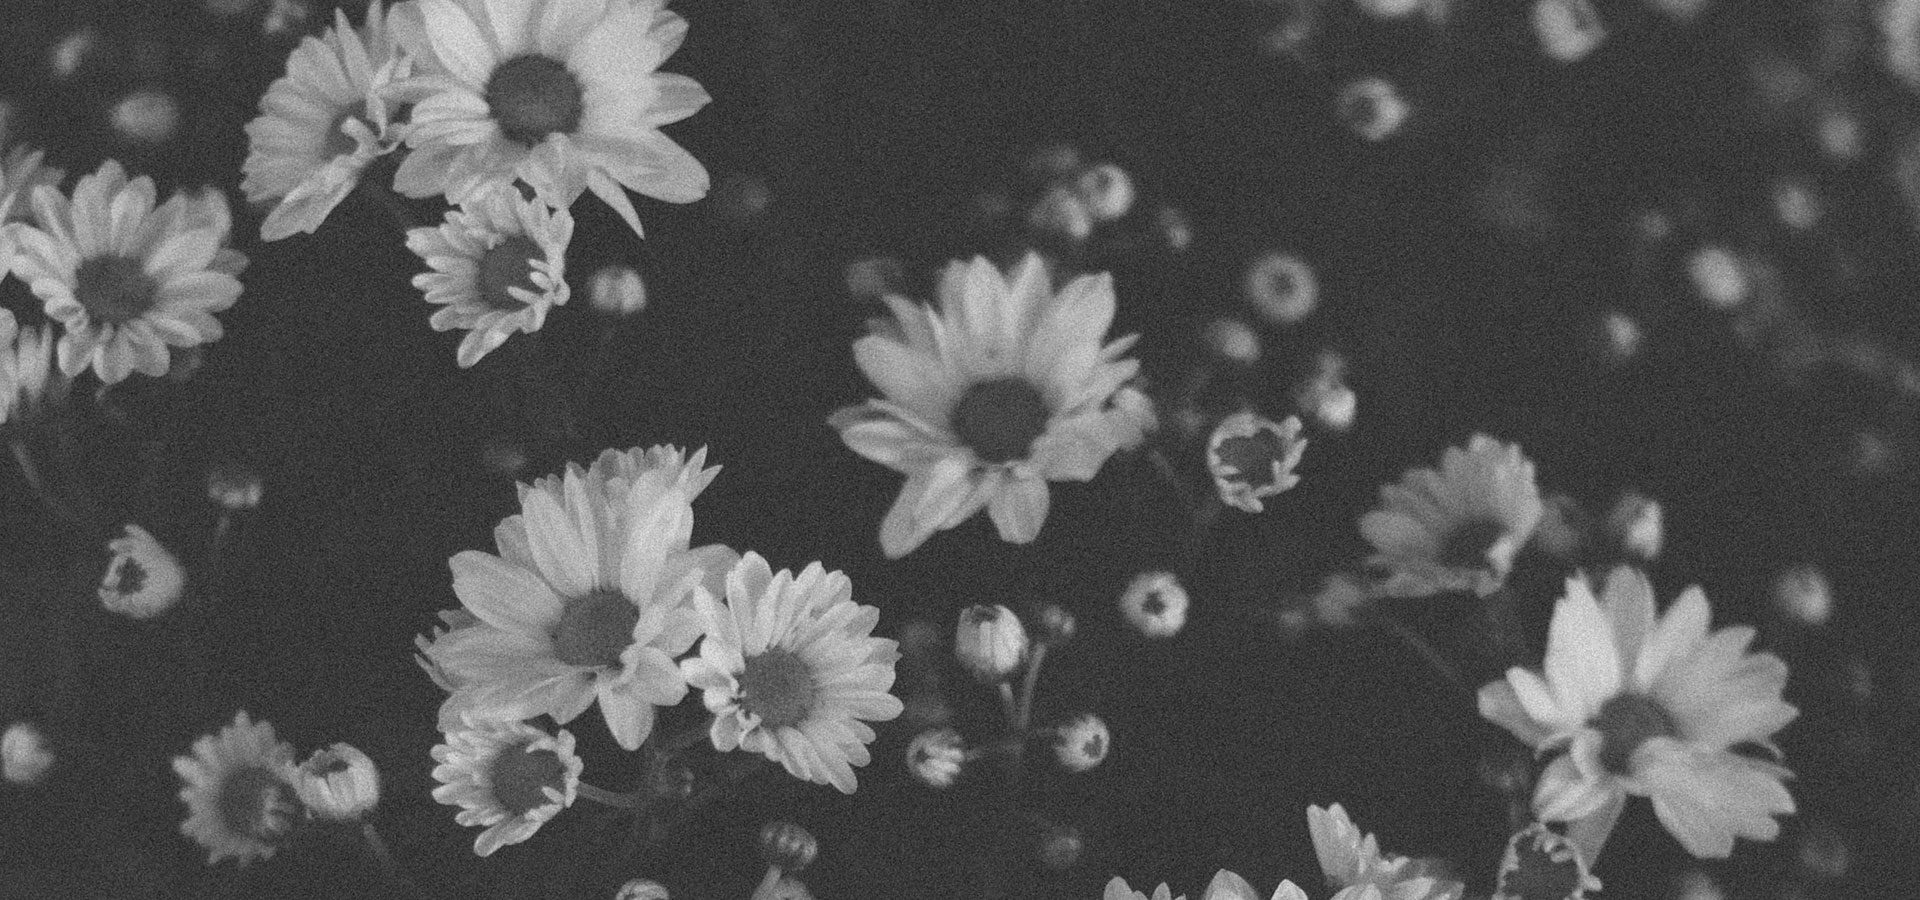
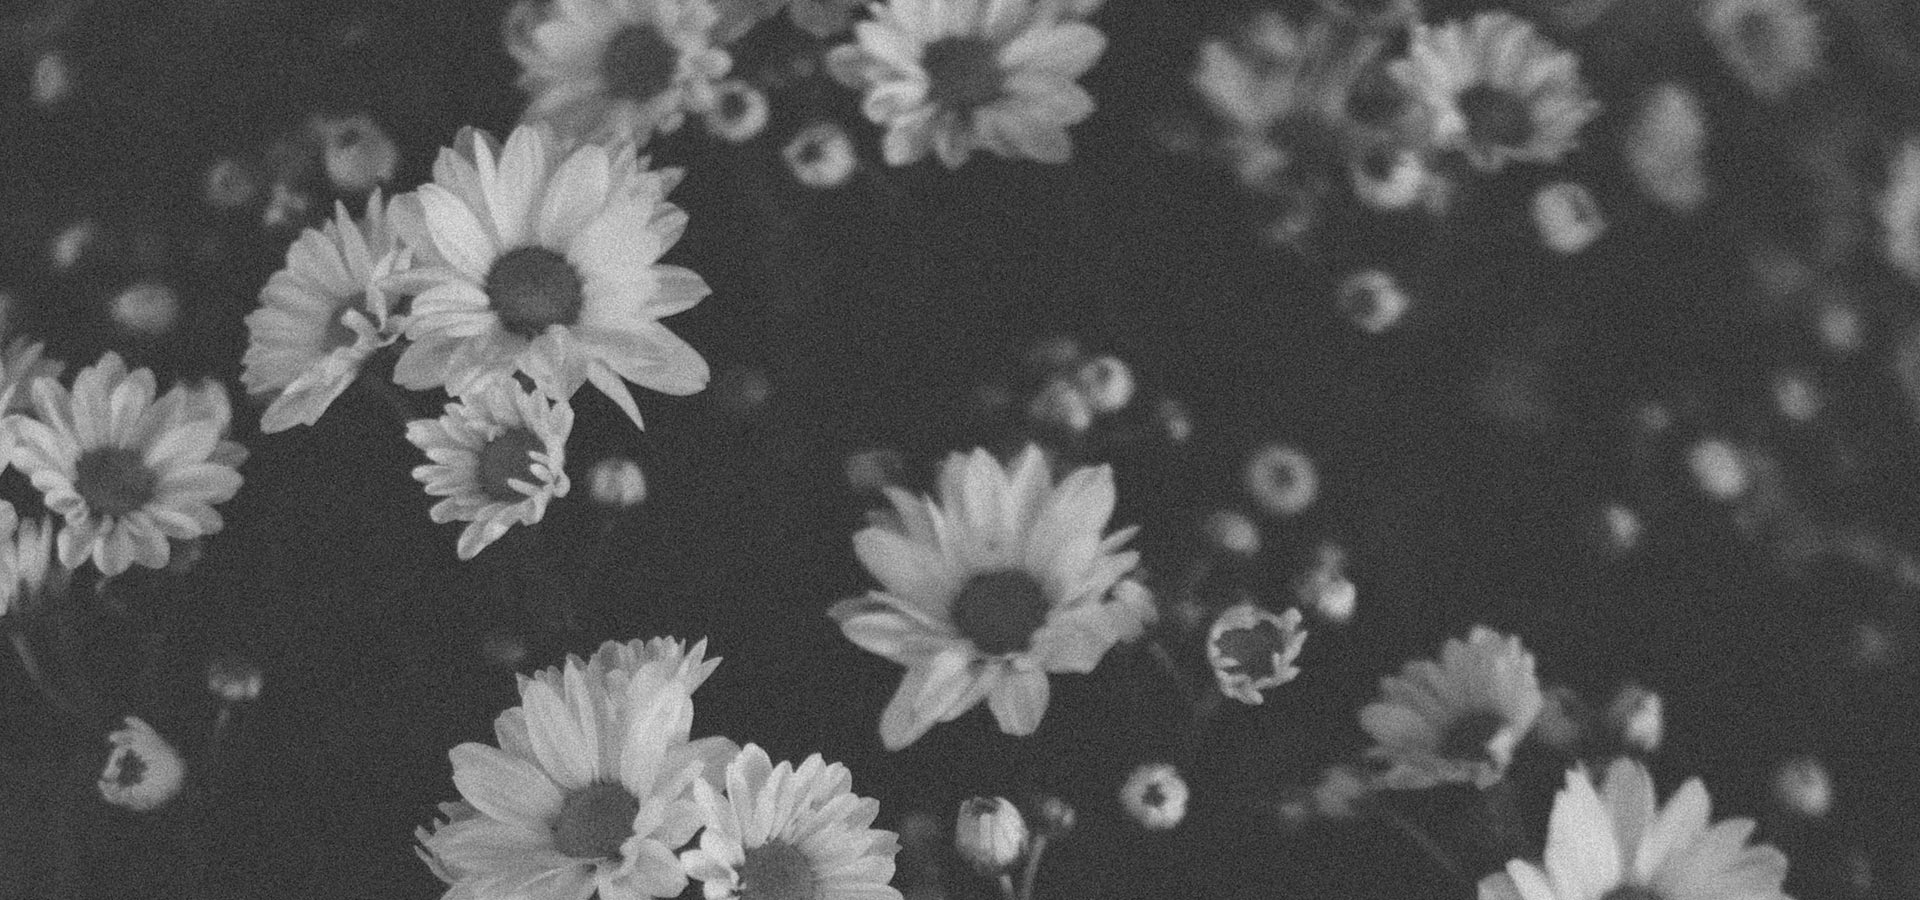
final splash

diff --git a/index.html b/index.html
@@ -20,7 +20,7 @@
 		<!-- Header -->
 			<header id="header">
 				<h1>Joanna Ruasol Design.</h1>
-                <p>re-design <i>in progress</i> | <a href="mailto:hello@joannaruasol.com">contact me</a></p>
+                <p>redesign <i>in progress</i> | <a href="mailto:hello@joannaruasol.com">contact me</a></p>
 
 			</header>
 

diff --git a/assets/css/main.css b/assets/css/main.css
@@ -155,7 +155,7 @@
 		transition: opacity 2s ease-in-out;
 		height: 100%;
 		left: 0;
-		opacity: 0.25;
+		opacity: 0.35;
 		position: fixed;
 		top: 0;
 		width: 100%;
